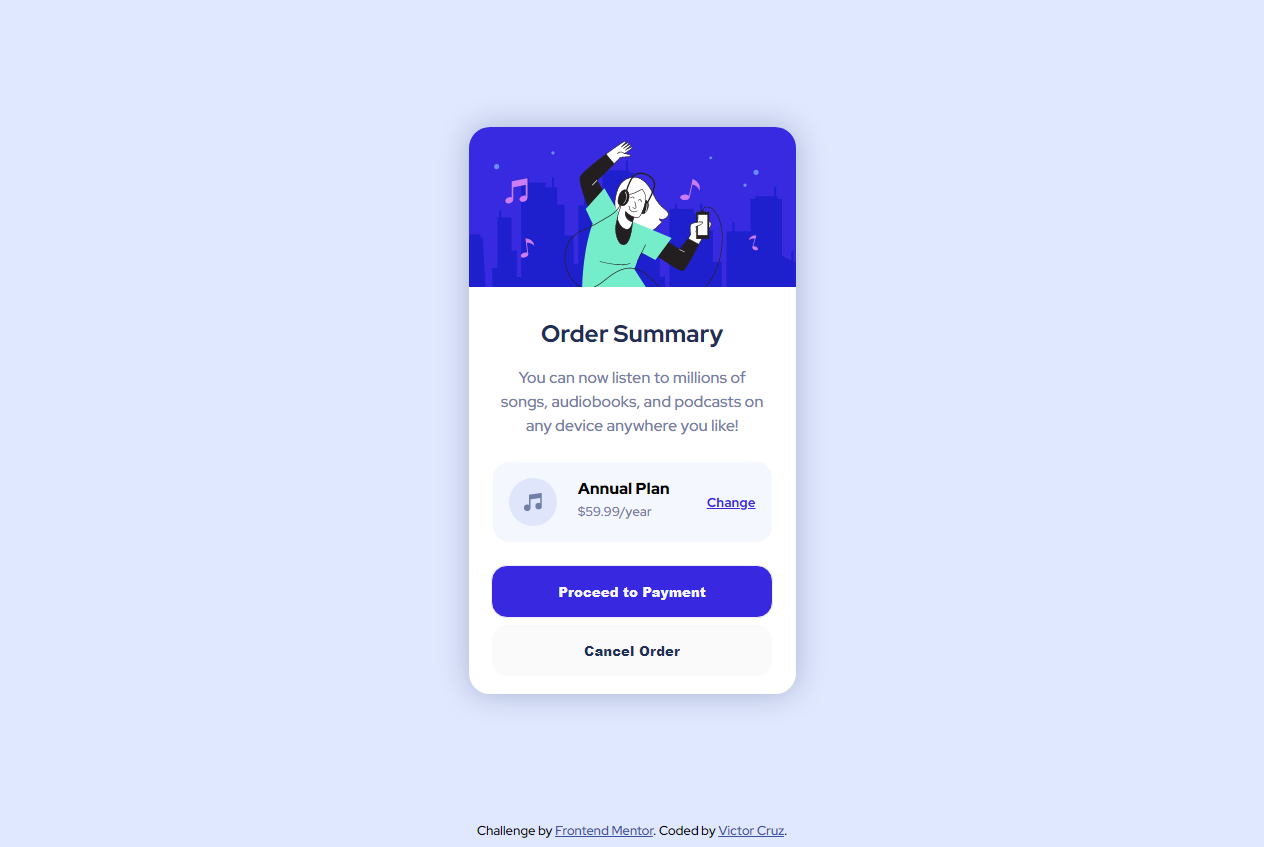
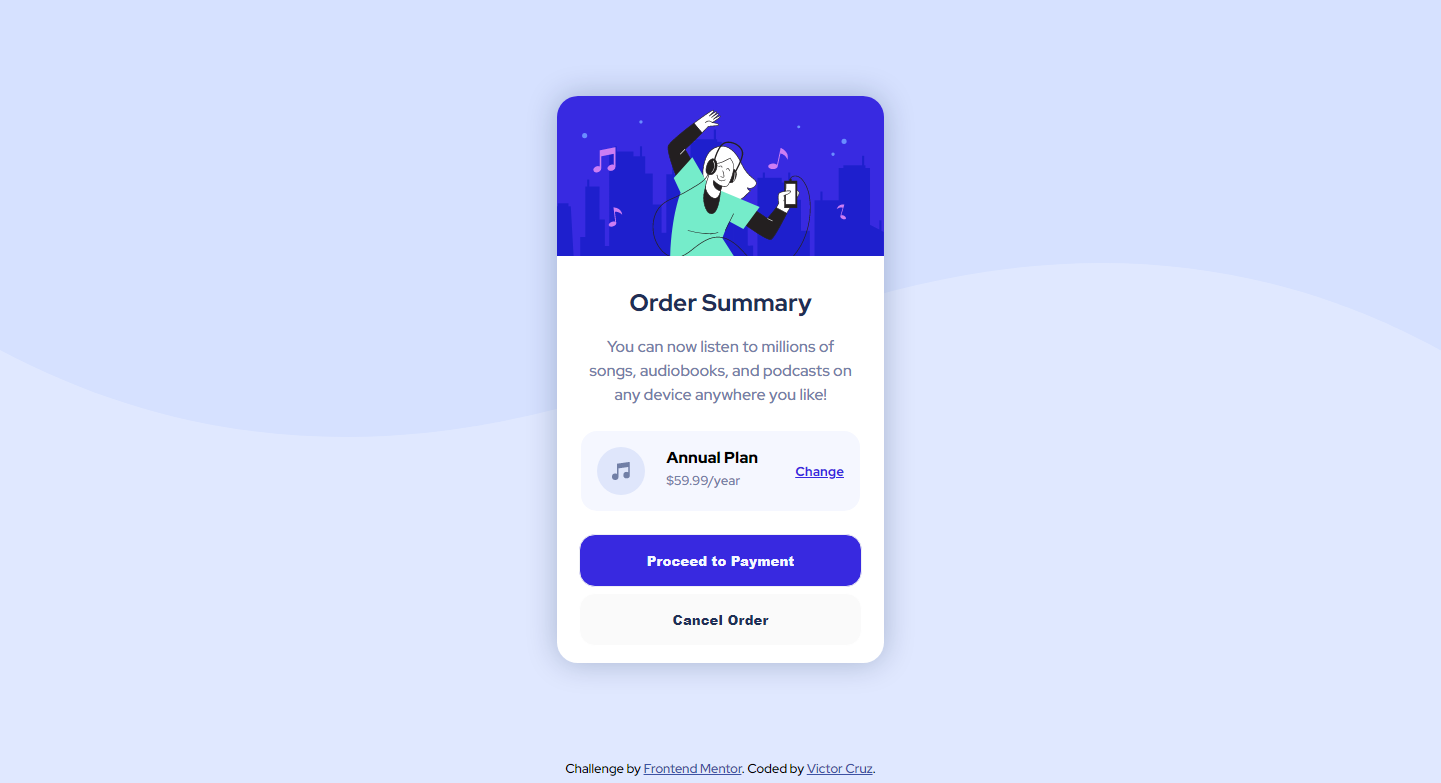
Updated

Changed region(s): [[0.3703, 0.092, 0.6479, 0.8582], [0.3703, 0.9502, 0.6171, 1.0]]

diff --git a/src/css/style.css b/src/css/style.css
@@ -42,9 +42,12 @@
 }
 
 body {
+    background-image: url('../images/pattern-background-desktop.svg');
+    background-repeat: repeat-x;
     background-color: var(--color-pale-blue);
     font-family: var(--font-base);
     font-size: var(--font-size);
+    overflow: hidden;
 }
 
 .container {
@@ -61,13 +64,13 @@ body {
 /** Section Card */
 .card {
     background-color: var(--color-white);
+    border-radius: var(--border-card);
+    box-shadow: rgb(9 30 66 / 25%) 0 0 30px 0px, rgb(9 30 66 / 31%) 0 0 0px 0px;
     display: flex;
+    height: var(--card-heigth);
     justify-content: center;
     margin: 0 auto;
     width: var(--card-width);
-    height: var(--card-heigth);
-    border-radius: var(--border-card);
-    box-shadow: rgb(9 30 66 / 25%) 0 0 30px 0px, rgb(9 30 66 / 31%) 0 0 0px 0px;
 }
 
 /** Section Box */
@@ -81,20 +84,20 @@ body {
 /** Section Box-Img */
 .card .box .box-img {
     background-image: url('../images/illustration-hero.svg');
-    height: var(--box-img-height);
-    width: var(--box-img-width);
     background-repeat: round;
-    overflow: hidden;
     background-color: var(--color-background-accent);
     border-top-left-radius: var(--border-card);
     border-top-right-radius: var(--border-card);
+    height: var(--box-img-height);
+    overflow: hidden;
+    width: var(--box-img-width);
     z-index: 2;
 }
 
 /** Section Box-Content */
 .card .box .box-content-header {
-    color: var(--color-dark-blue);
     align-self: center;
+    color: var(--color-dark-blue);
     padding: 1.9rem 0 1.1rem;
 }
 
@@ -121,18 +124,18 @@ body {
 .card .box .box-content-plan .box-content-plan-list {
     display: flex;
     background-color: var(--color-very-pale-blue);
-    min-height: var(--plan-list-min-height);
-    position: relative;
     border-radius: var(--border-button);
-    padding: 1rem;
     justify-content: space-between;
+    min-height: var(--plan-list-min-height);
+    padding: 1rem;
+    position: relative;
 }
 
 .card .box .box-content-plan .box-content-plan-list .plan-list-avatar {
     background-image: url('../images/icon-music.svg');
+    background-repeat: no-repeat;
     height: var(--plan-list-avatar-height);
     width: var(--plan-list-avatar-width);
-    background-repeat: no-repeat;
 }
 
 .card .box .box-content-plan .box-content-plan-list .plan-list-content {
@@ -150,49 +153,49 @@ body {
 }
 
 .card .box .box-content-plan .box-content-plan-list .plan-list-action {
-    color: var(--color-bright-blue);
-    text-decoration: underline;
-    padding: 0 0 0 1rem;
     align-self: center;
     cursor: pointer;
+    color: var(--color-bright-blue);
+    padding: 0 0 0 1rem;
+    text-decoration: underline;
 }
 
 /** Section Box-Action */
 
 .card .box .box-action {
     color: var(--color-text-paragraph);
-    font-family: var(--font-heading);
     display: flex;
+    font-family: var(--font-heading);
     flex-direction: column;
     margin: 1.4rem 1.4rem 0 1.4rem;
 }
 
 .card .box .box-action .action-button {
-    display: block;
     background-color: var(--color-bright-blue);
-    color: var(--color-very-pale-blue);
-    text-align: center;
-    cursor: pointer;
-    padding: 1rem;
-    min-width: 100%;
-    border-radius: var(--border-button);
-    text-decoration: none;
     border: 1px solid #eeeff4;
+    border-radius: var(--border-button);
+    display: block;
+    color: var(--color-very-pale-blue);
+    cursor: pointer;
     font-weight: var(--font-weight-900);
+    min-width: 100%;
+    text-decoration: none;
+    padding: 1rem;
+    text-align: center;
 }
 
 .card .box .box-action .action-disabled {
     display: block;
     color: var(--color-dark-blue);
+    border: 1px solid var(--color-white);
+    border-radius: var(--border-button);
+    cursor: pointer;
     font-weight: var(--font-weight-900);
     text-align: center;
-    cursor: pointer;
+    margin-top: .4rem;
     padding: 1rem;
     min-width: 100%;
-    border-radius: var(--border-button);
     text-decoration: none;
-    border: 1px solid var(--color-white);
-    margin-top: .4rem;
 }
 
 
@@ -208,4 +211,13 @@ footer .attribution {
 
 footer .attribution a {
     color: hsl(228, 45%, 44%);
+}
+
+
+@media only screen and (max-width: 375px) {
+    body {
+        background-image: url('../images/pattern-background-mobile.svg');
+        background-repeat: repeat-x;
+        overflow: hidden;
+    }
 }
